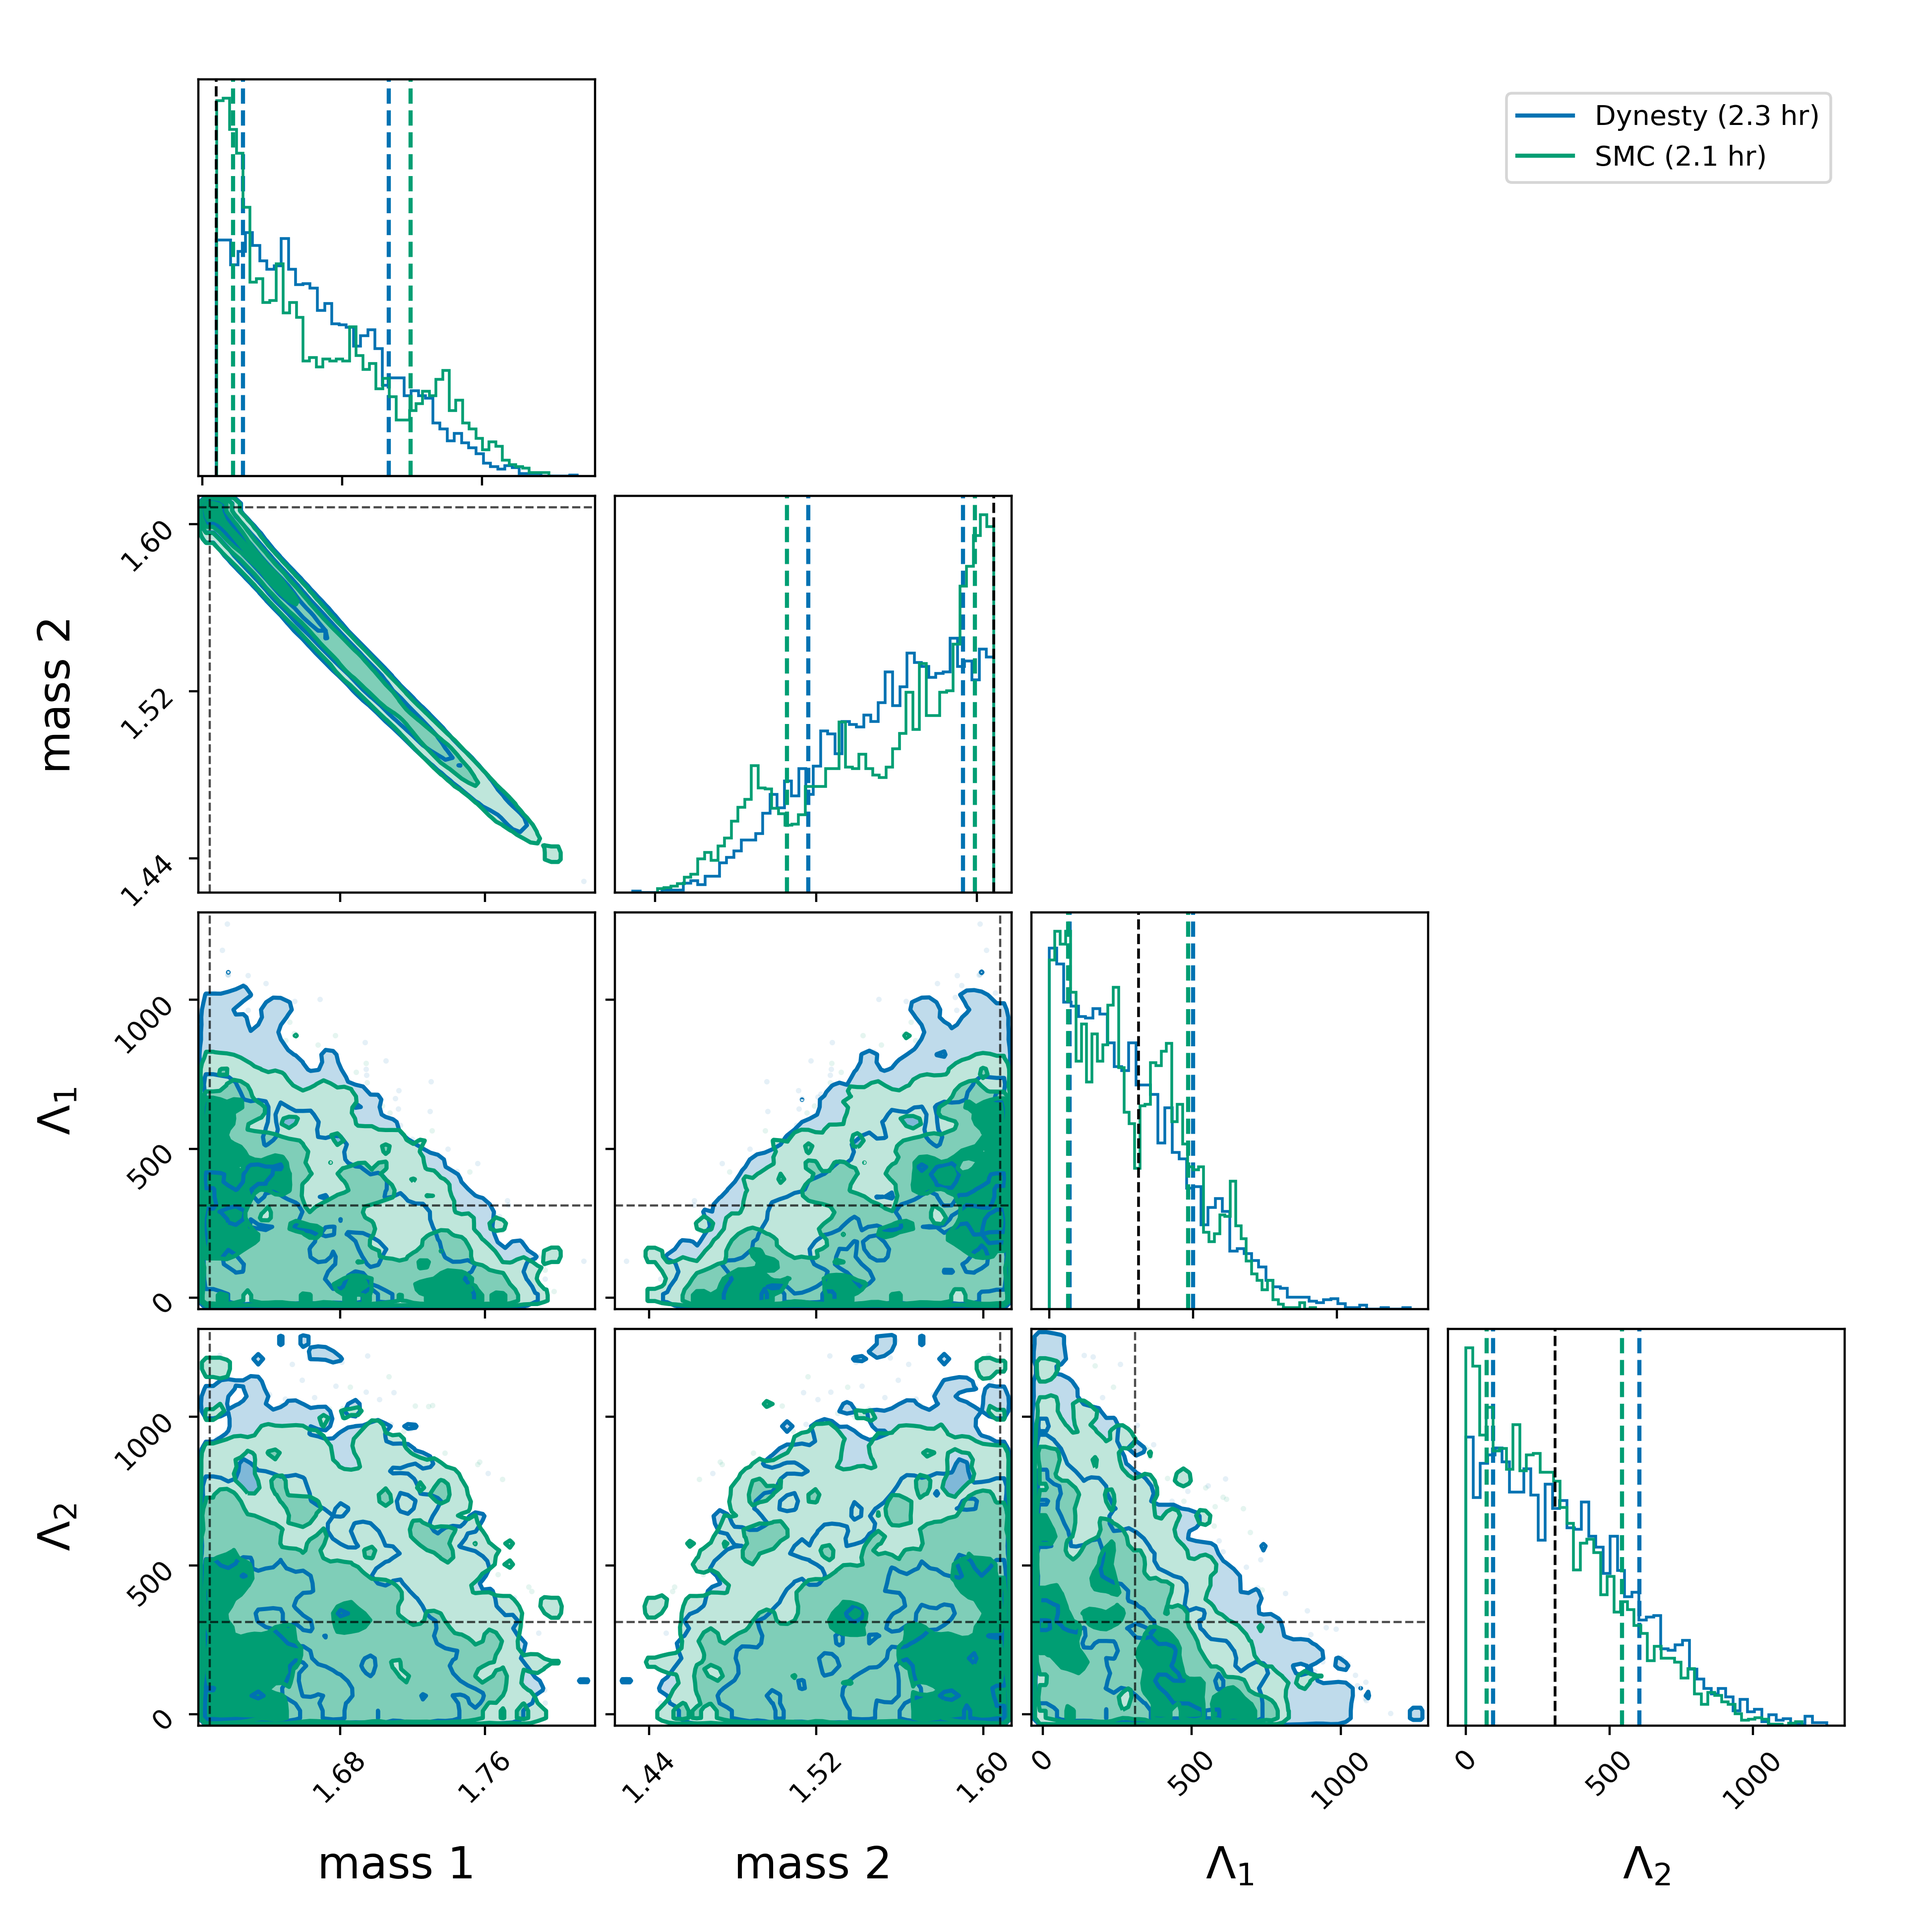
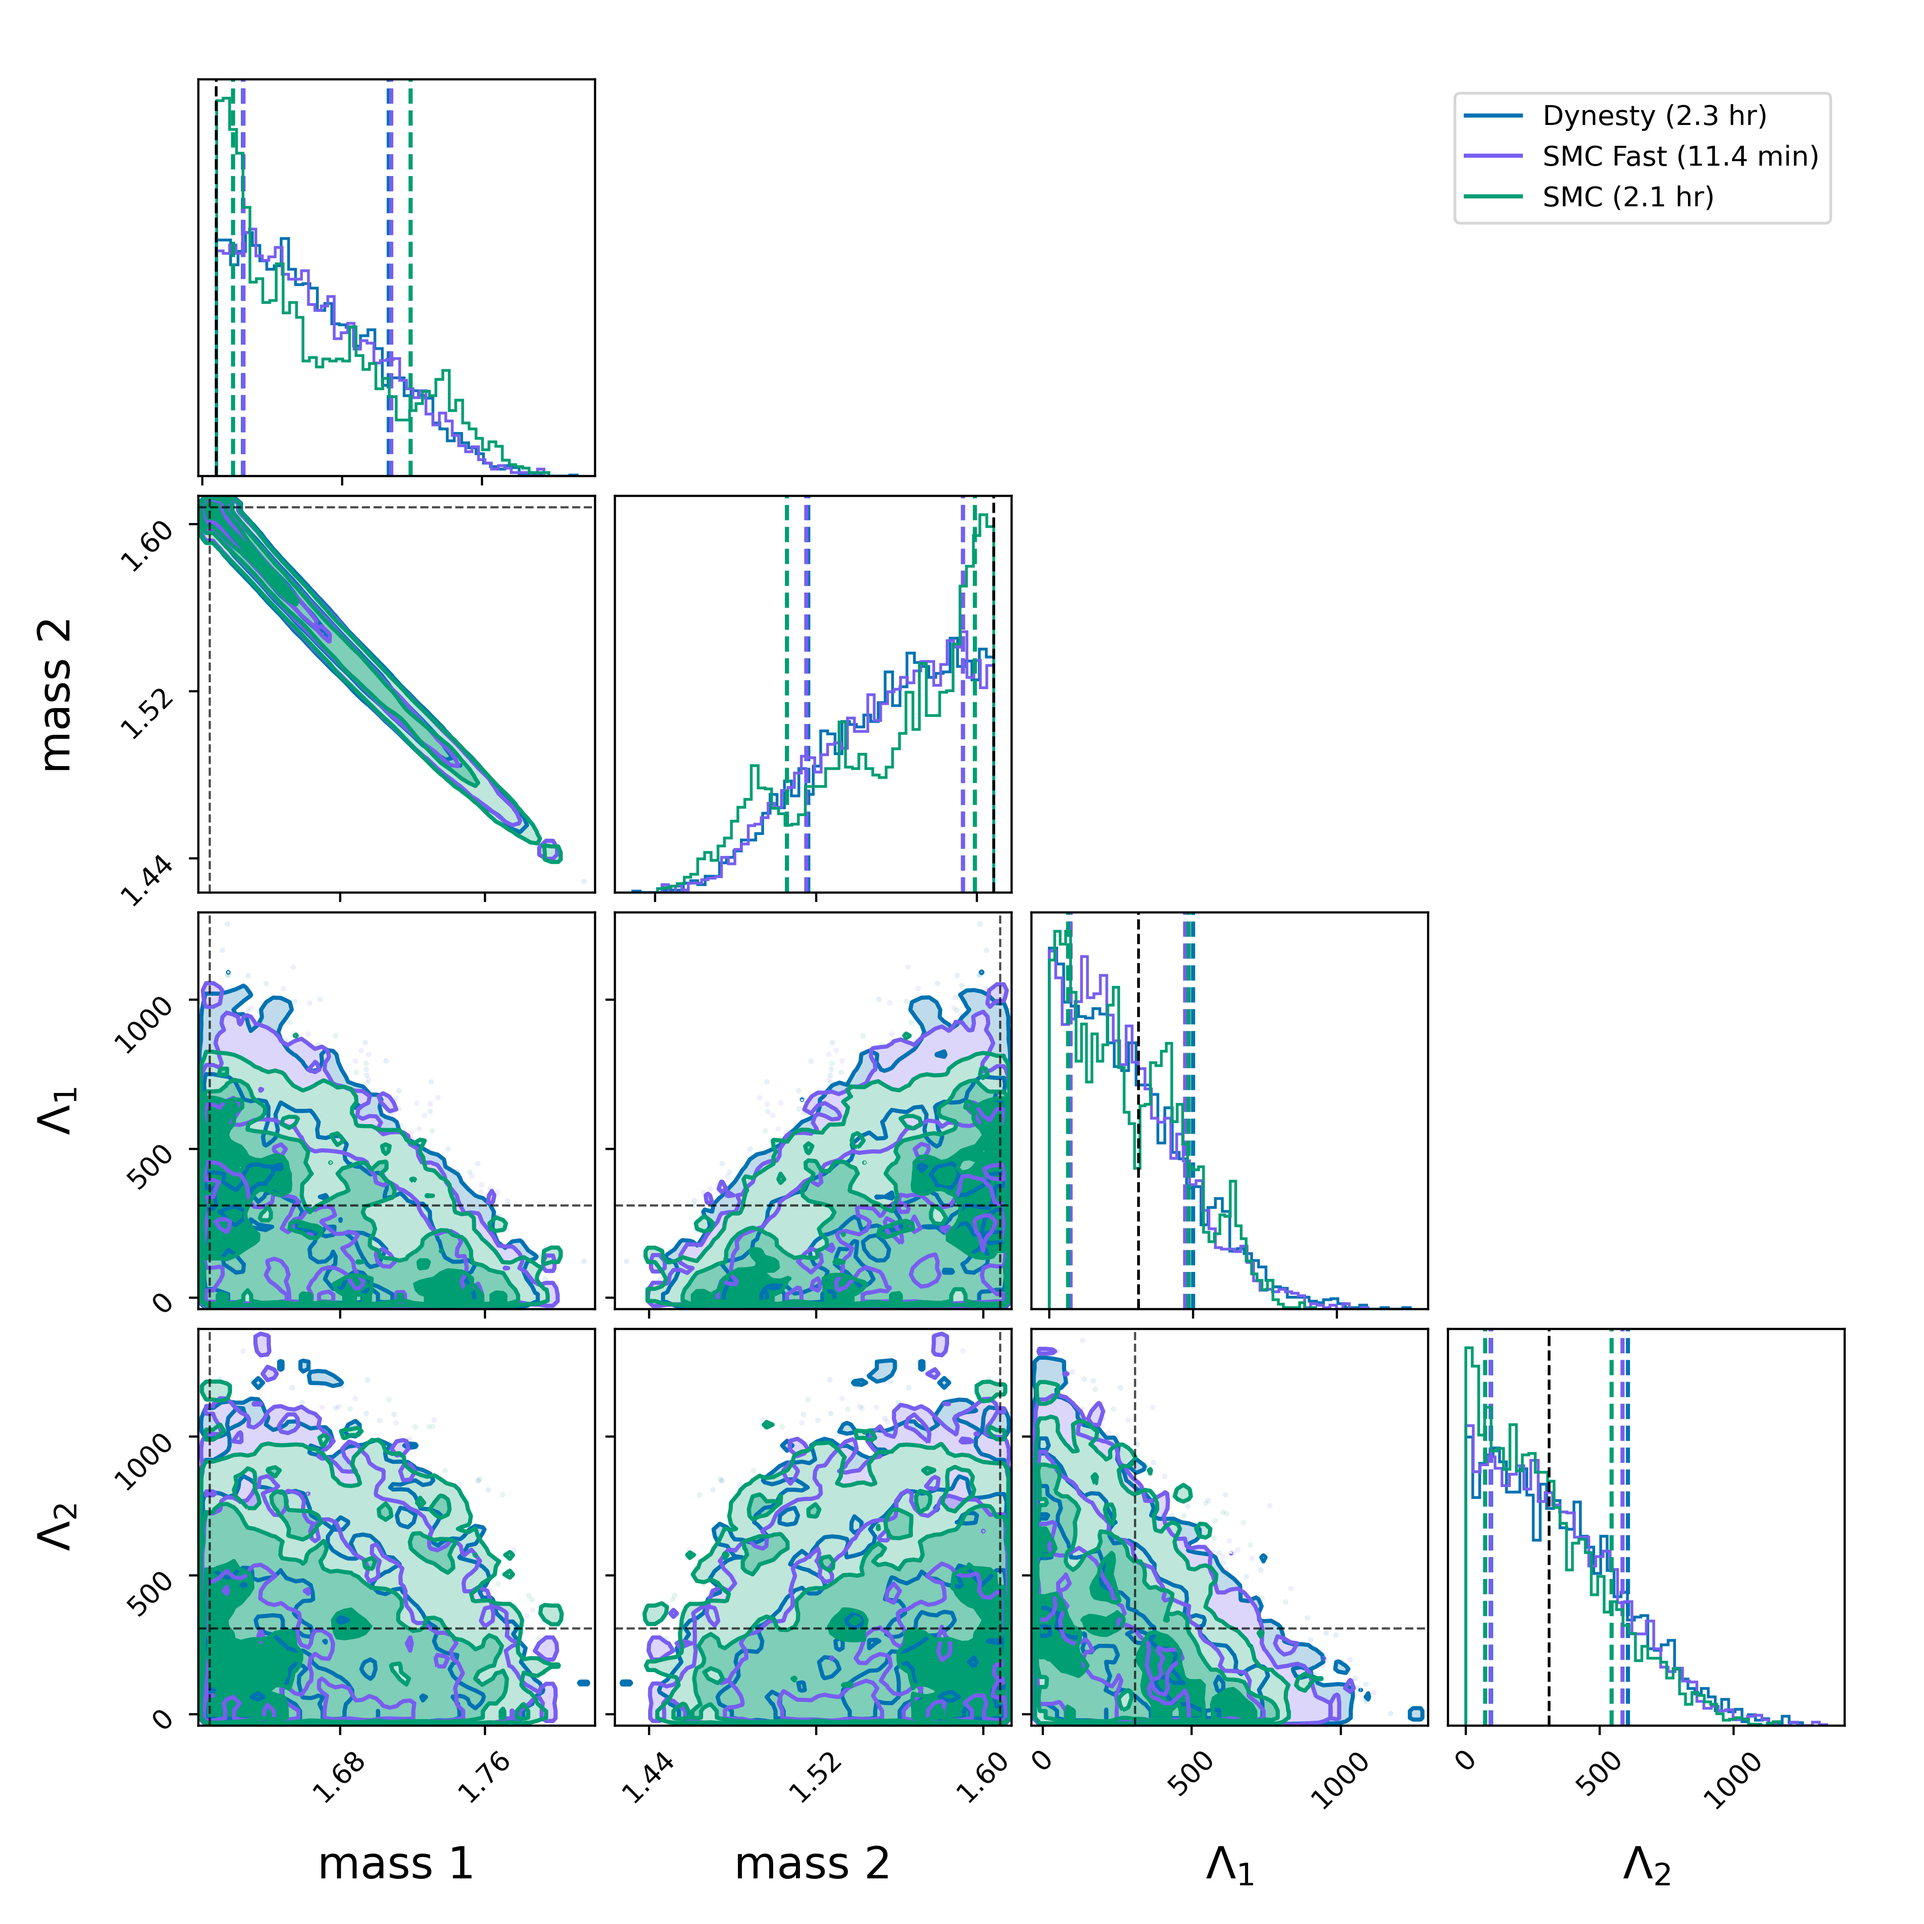
Clean up BNS example and add smc-fast

diff --git a/examples/BNS_3G/run.py b/examples/BNS_3G/run.py
@@ -7,7 +7,7 @@ Supports three likelihood types: std (standard), rb (relative binning), mb (mult
 
 Usage
 -----
-    python run.py --likelihood rb --sampler laplace rejection smc dynesty
+    python run.py --likelihood rb --sampler laplace rejection smc smc-fast dynesty
     python run.py --likelihood rb --compare
     python run.py --compare
 """
@@ -39,6 +39,14 @@ bilby.core.utils.random.seed(1234)
 # prefix (the likelihood type, e.g. "rb-laplace") so the comparison plots have a
 # stable name regardless of which likelihood was run.
 base_label = "bns"
+
+# "smc-fast" is specific to this example, so it does not have a colour in the
+# shared palette (which is reserved for methods every example can run).  Set one
+# here instead: without it the fast run would inherit the SMC green and be
+# indistinguishable from the converged SMC run it is meant to be compared
+# against.  The violet is from the IBM colourblind-safe palette and stays
+# separable from both that green and the dynesty blue.
+COLOUR_OVERRIDES = {"smc-fast": "#785EF0"}
 
 
 def setup(likelihood_type="rb"):
@@ -301,10 +309,21 @@ def run_rejection(_common_laplace, run_prefix):
     )
 
 
-def run_smc(_common_laplace, run_prefix):
+def run_smc(_common_laplace, run_prefix, label="smc",
+             n_steps=500,
+             prior_parameters=["lambda_1", "lambda_2", "psi", "ra", "theta_jn"]
+             ):
+    """Run the SMC resampling stage.
+
+    ``n_steps`` is the number of MCMC steps taken per SMC temperature level. The
+    default (500) is enough to decorrelate the walkers; the "smc-fast" variant
+    lowers it to 10 to show how an under-converged SMC run degrades the
+    posterior (the samples stay close to the Gaussian proposal they started
+    from) for a fraction of the cost.
+    """
     return bilby.run_sampler(
         **_common_laplace,
-        label=f"{run_prefix}-smc",
+        label=f"{run_prefix}-{label}",
         resample="smc",
         smc_kwargs=dict(
             sampler="minipcn_smc",
@@ -312,7 +331,7 @@ def run_smc(_common_laplace, run_prefix):
             n_samples=5000,
             adaptive=True,
             sampler_kwargs=dict(
-                n_steps=500,
+                n_steps=n_steps,
                 target_acceptance_rate=0.234,
                 step_fn="tpcn",
             ),
@@ -320,7 +339,7 @@ def run_smc(_common_laplace, run_prefix):
         cov_scaling=1,
         jacobian_cap_scale=1,
         hessian_kwargs={"initial_step": 0.001, "step_factor": 2, "maxiter": 10},
-        prior_parameters=["lambda_1", "lambda_2", "psi", "ra", "theta_jn"],
+        prior_parameters=prior_parameters,
     )
 
 
@@ -343,7 +362,12 @@ def compare(outdir):
     """Load all result files, make comparison corner plots, and print comparison table."""
     pattern = f"{outdir}/*_result.*"
     full_filename = f"{base_label}_comparison.png"
-    results, labels = compare_results(pattern, full_filename, sampler_only_labels=True)
+    results, labels = compare_results(
+        pattern,
+        full_filename,
+        sampler_only_labels=True,
+        colour_overrides=COLOUR_OVERRIDES,
+    )
 
     # Custom plotting for this example
     import matplotlib.pyplot as plt
@@ -384,7 +408,7 @@ def compare(outdir):
         fig = bilby.core.result.plot_multiple(
             results,
             labels=labels,
-            colours=colours_for_results(results),
+            colours=colours_for_results(results, overrides=COLOUR_OVERRIDES),
             parameters=plot_parameters,
             filename=filename,
             titles=False,
@@ -412,9 +436,12 @@ if __name__ == "__main__":
     parser.add_argument(
         "--sampler",
         nargs="+",
-        choices=["laplace", "rejection", "smc", "dynesty"],
+        choices=["laplace", "rejection", "smc", "smc-fast", "dynesty"],
         metavar="SAMPLER",
-        help="One or more samplers to run: laplace, rejection, smc, dynesty",
+        help=(
+            "One or more samplers to run: laplace, rejection, smc, smc-fast"
+            " (SMC with only 10 MCMC steps per level), dynesty"
+        ),
     )
     parser.add_argument(
         "--compare",
@@ -437,6 +464,7 @@ if __name__ == "__main__":
                 "laplace": lambda: run_laplace(_common_laplace, _run_prefix),
                 "rejection": lambda: run_rejection(_common_laplace, _run_prefix),
                 "smc": lambda: run_smc(_common_laplace, _run_prefix),
+                "smc-fast": lambda: run_smc(_common_laplace, _run_prefix, label="smc-fast", n_steps=50, prior_parameters=["lambda_1", "lambda_2", "psi"]),
                 "dynesty": lambda: run_dynesty(_common, _run_prefix),
             }
 

diff --git a/src/bilby_laplace/comparison.py b/src/bilby_laplace/comparison.py
@@ -33,6 +33,34 @@ DEFAULT_SAMPLER_COLOUR = "#999999"  # neutral grey
 TRUTH_COLOUR = "#000000"
 
 
+def _label_tokens(label):
+    """Lower-cased alphanumeric tokens of a label's basename.
+
+    ``"/tmp/out/RB-SMC-fast"`` -> ``["rb", "smc", "fast"]``.
+    """
+    return [t for t in re.split(r"[^a-z0-9]+", os.path.basename(str(label)).lower()) if t]
+
+
+def _override_colour(label, overrides):
+    """Colour from *overrides* whose key matches *label*, or ``None``.
+
+    A key matches when its tokens appear as a contiguous run in the label's
+    tokens, so ``"smc-fast"`` matches ``"rb-smc-fast"`` and ``"std-smc-fast"``
+    but not ``"rb-smc"``.  This keeps an override written in one example free of
+    that example's run prefix.  The longest matching key wins, so a specific
+    override beats a more general one.
+    """
+    tokens = _label_tokens(label)
+    best = None
+    for key, colour in overrides.items():
+        key_tokens = _label_tokens(key)
+        n = len(key_tokens)
+        if n and any(tokens[i : i + n] == key_tokens for i in range(len(tokens) - n + 1)):
+            if best is None or n > best[0]:
+                best = (n, colour)
+    return None if best is None else best[1]
+
+
 def sampler_family(label):
     """Return the sampler-family key for a result label, or ``None``.
 
@@ -48,21 +76,38 @@ def sampler_family(label):
     not family keys, so this correctly resolves a base that happens to be named
     after another family (``"laplace_smc"`` -> ``"smc"``, not ``"laplace"``).
     """
-    tokens = re.split(r"[^a-z0-9]+", os.path.basename(str(label)).lower())
     family = None
-    for token in tokens:
+    for token in _label_tokens(label):
         if token in SAMPLER_COLOURS:
             family = token
     return family
 
 
-def colours_for_results(results):
+def colours_for_results(results, overrides=None):
     """List of plot colours aligned to *results*, keyed by sampler family.
 
     Pass directly to ``bilby.core.result.plot_multiple(..., colours=...)``.
     Unrecognised samplers fall back to a neutral grey.
+
+    Parameters
+    ----------
+    results : list
+        Loaded bilby ``Result`` objects.
+    overrides : dict, optional
+        Maps a label fragment to a colour, taking precedence over the shared
+        palette -- e.g. ``{"smc-fast": "#785EF0"}`` colours ``"rb-smc-fast"``
+        without touching ``"rb-smc"``.  Use this for a run that is specific to
+        one example (a variant of a method, a one-off configuration) so it stays
+        distinguishable there without claiming a colour in the global palette,
+        which is reserved for methods every example can produce.
     """
-    return [SAMPLER_COLOURS.get(sampler_family(r.label), DEFAULT_SAMPLER_COLOUR) for r in results]
+    colours = []
+    for r in results:
+        colour = _override_colour(r.label, overrides) if overrides else None
+        if colour is None:
+            colour = SAMPLER_COLOURS.get(sampler_family(r.label), DEFAULT_SAMPLER_COLOUR)
+        colours.append(colour)
+    return colours
 
 
 def _prettify_method(method):
@@ -165,7 +210,7 @@ def overlay_injection_lines(fig, parameters, injection_parameters):
                     ax.axhline(truths[row], color=TRUTH_COLOUR, ls="--", lw=0.8, alpha=0.7)
 
 
-def compare(pattern, filename, injection_parameters=None, sampler_only_labels=False):
+def compare(pattern, filename, injection_parameters=None, sampler_only_labels=False, colour_overrides=None):
     """Load result files matching pattern, print comparison table, and create corner plot.
 
     Parameters
@@ -182,6 +227,8 @@ def compare(pattern, filename, injection_parameters=None, sampler_only_labels=Fa
         dropping the shared example prefix and the run time.  Useful when the
         default ``"{Base}_{method} (time)"`` labels are long enough to crowd the
         legend.  Default False.
+    colour_overrides : dict, optional
+        Per-example colour overrides, passed to :func:`colours_for_results`.
 
     Returns
     -------
@@ -261,7 +308,7 @@ def compare(pattern, filename, injection_parameters=None, sampler_only_labels=Fa
     fig = bilby.core.result.plot_multiple(
         results,
         labels=labels,
-        colours=colours_for_results(results),
+        colours=colours_for_results(results, overrides=colour_overrides),
         filename=filename,
         titles=False,
         save=False,

diff --git a/tests/test_comparison.py b/tests/test_comparison.py
@@ -22,6 +22,8 @@ class _FakeResult:
         ("hlv_rejection", "rejection"),
         ("hlv_rejection_user", "rejection"),  # config variant folds into base family
         ("rosenbrock_smc", "smc"),
+        ("rb-smc", "smc"),
+        ("rb-smc-fast", "smc"),  # example-local variants stay in the base family
         ("gaussian_dynesty", "dynesty"),
         ("bns_laplace", "laplace"),
         ("x_inprior", "inprior"),
@@ -47,6 +49,33 @@ def test_colours_for_results_aligns_and_defaults():
         SAMPLER_COLOURS["rejection"],
         SAMPLER_COLOURS["smc"],
         DEFAULT_SAMPLER_COLOUR,
+    ]
+
+
+def test_colour_overrides_beat_the_palette_without_touching_siblings():
+    # A single example can distinguish a variant of a family (here an
+    # under-converged "smc-fast" run) without that variant entering the shared
+    # palette.  The override key carries no run prefix, so it matches whichever
+    # likelihood the example was run with.
+    results = [_FakeResult("rb-smc"), _FakeResult("rb-smc-fast"), _FakeResult("mb-smc-fast")]
+    assert colours_for_results(results, overrides={"smc-fast": "#785EF0"}) == [
+        SAMPLER_COLOURS["smc"],
+        "#785EF0",
+        "#785EF0",
+    ]
+
+
+def test_colour_overrides_prefer_the_longest_match():
+    results = [_FakeResult("rb-smc-fast")]
+    overrides = {"smc": "#111111", "smc-fast": "#222222"}
+    assert colours_for_results(results, overrides=overrides) == ["#222222"]
+
+
+def test_colour_overrides_require_contiguous_tokens():
+    # "smc-fast" must not match a label that merely contains both tokens apart.
+    results = [_FakeResult("rb-smc-rejection-fast")]
+    assert colours_for_results(results, overrides={"smc-fast": "#785EF0"}) == [
+        SAMPLER_COLOURS["rejection"]
     ]
 
 
